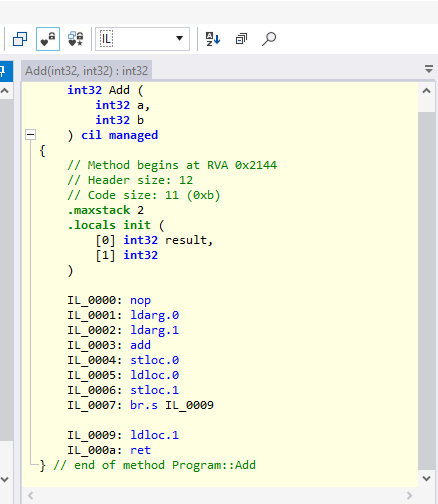
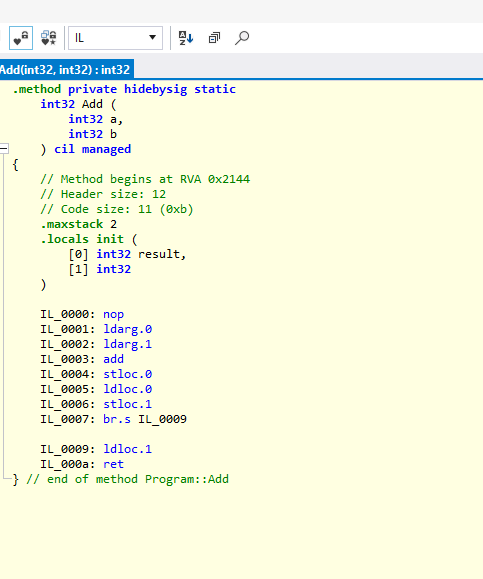
Lab02: Release build comparisonand benchmark results

diff --git a/README.md b/README.md
@@ -1,0 +1,13 @@
+ Режим | Запуск 1 | Запуск 2 | Запуск 3 | Запуск 4 | Запуск 5 | Минимум |
+| ------- | -------: | -------: | -------: | -------: | -------: | ------: |
+| Debug | 1786 | 1802| 1766| 1770 | 1784 | 1765 |
+| Release | 1785| 1795 | 1772| 1776 | 1771 | 1776 |
+
+В моём эксперименте Release оказался медленнее Debug примерно в 1 раз (показатели времени практически идентичны: 10673 мс в Debug против 10675 мс в Release)
+
+При сравнении промежуточного кода в ILSpy я обнаружил следующие реальные отличия:
+1) Исчезли пустые команды: в Debug есть инструкции nop, а в Release их нет.
+2) Меньше лишних переменных: в Release компилятор удалил временные переменные, поэтому данные передаются быстрее и напрямую.
+3) Код стал короче
+4) Циклы стали быстрее: в методе SumTo() компилятор перестроил логику
+количество IL-инструкций в методе Add() изменилось с 10 до 4.
